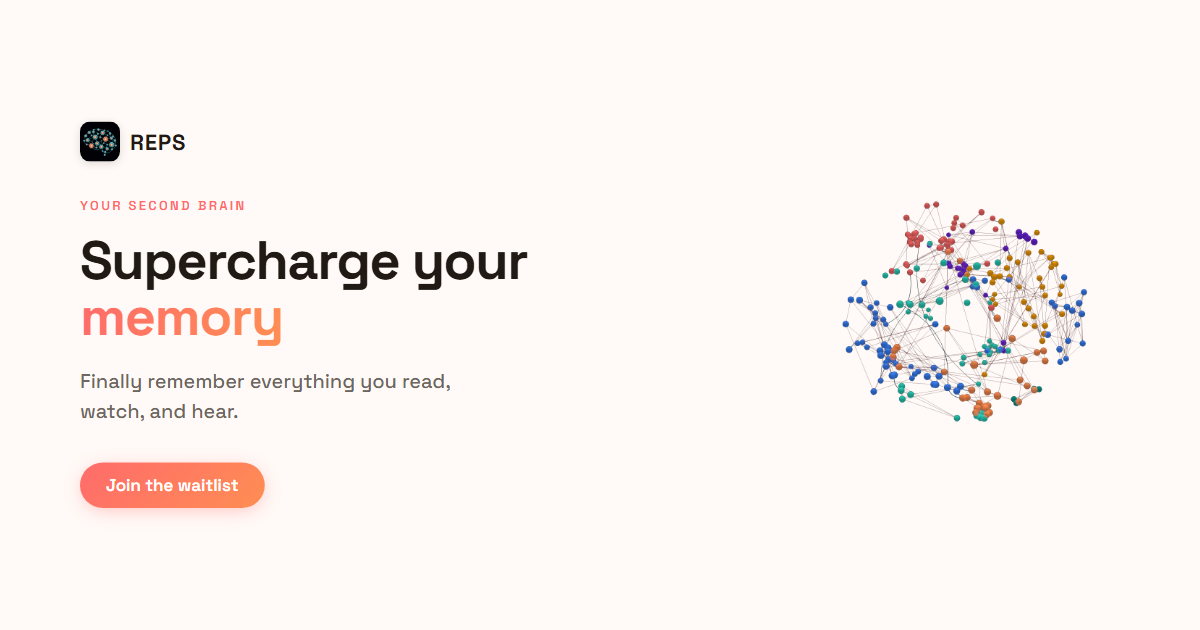
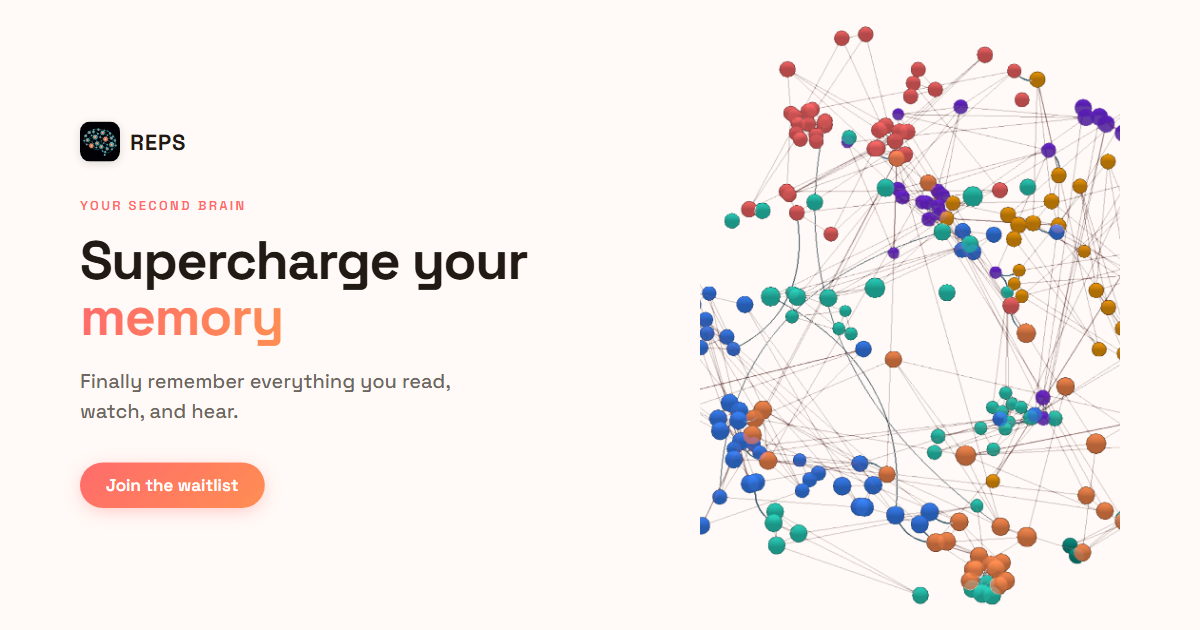
web: galaxy OG card full-height + faded lines; drop 'Two minutes a day' tagline
- galaxy-nobg.png: cropped to cluster bounds + lines at max 60 alpha (nodes full)
- og-card-v3-gen.html: galaxy 700px in 630px-tall right column fills card height
- og-card-v3.png: rendered output
- v3c.html: tagline trimmed to 'A quick daily game makes it stick.'

Changed region(s): [[0.5858, 0.0603, 0.9558, 0.9651], [0.6783, 0.0302, 0.74, 0.0905], [0.74, 0.9349, 0.7708, 0.9651]]

diff --git a/og-card-v3-gen.html b/og-card-v3-gen.html
@@ -89,7 +89,8 @@
       }
       .right {
         flex: none;
-        width: 380px;
+        width: 420px;
+        height: 630px;
         display: flex;
         align-items: center;
         justify-content: center;
@@ -97,12 +98,11 @@
         overflow: hidden;
       }
       .galaxy-img {
-        width: 580px;
-        height: 580px;
+        width: 700px;
+        height: 700px;
         object-fit: contain;
         position: relative;
-        right: -40px;
-        margin-top: -30px;
+        right: -30px;
       }
     </style>
     <link

diff --git a/v3c.html b/v3c.html
@@ -796,9 +796,7 @@
           </div>
         </div>
 
-        <p class="tagline">
-          A quick daily game makes it stick. Two minutes a day.
-        </p>
+        <p class="tagline">A quick daily game makes it stick.</p>
 
         <div class="form-zone" id="hero-zone">
           <form class="signup" id="hero-form" novalidate>
